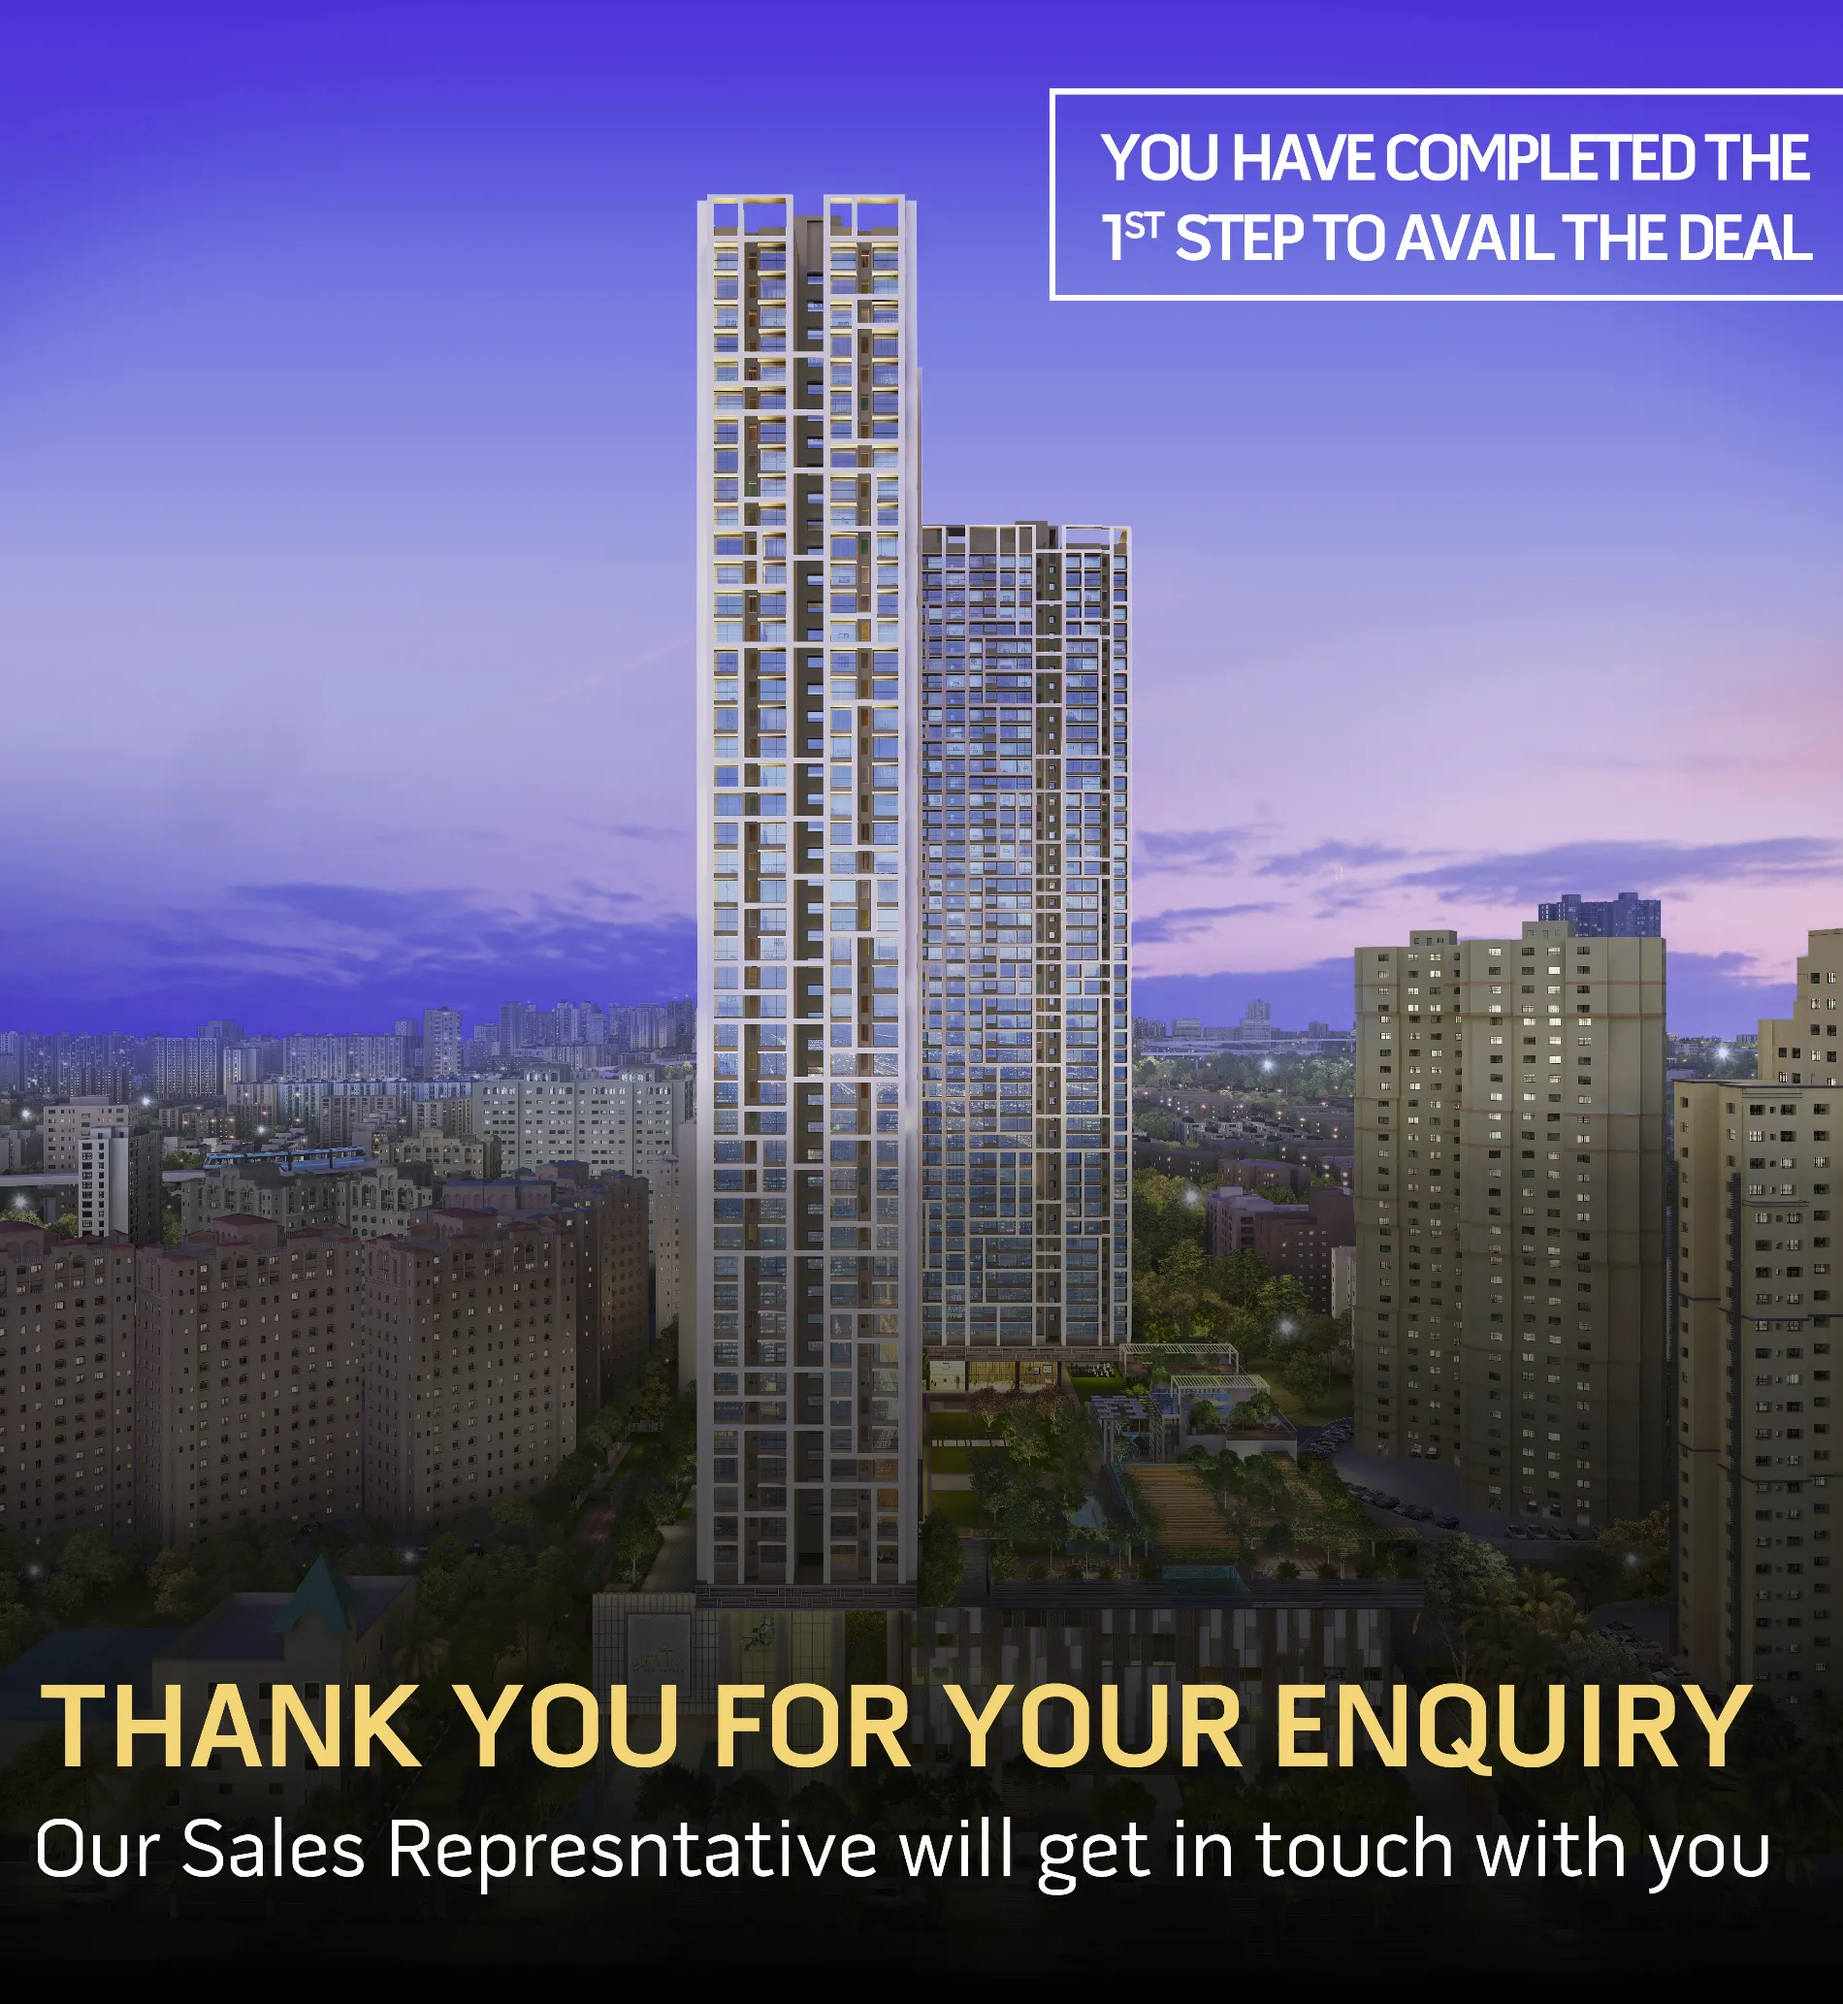
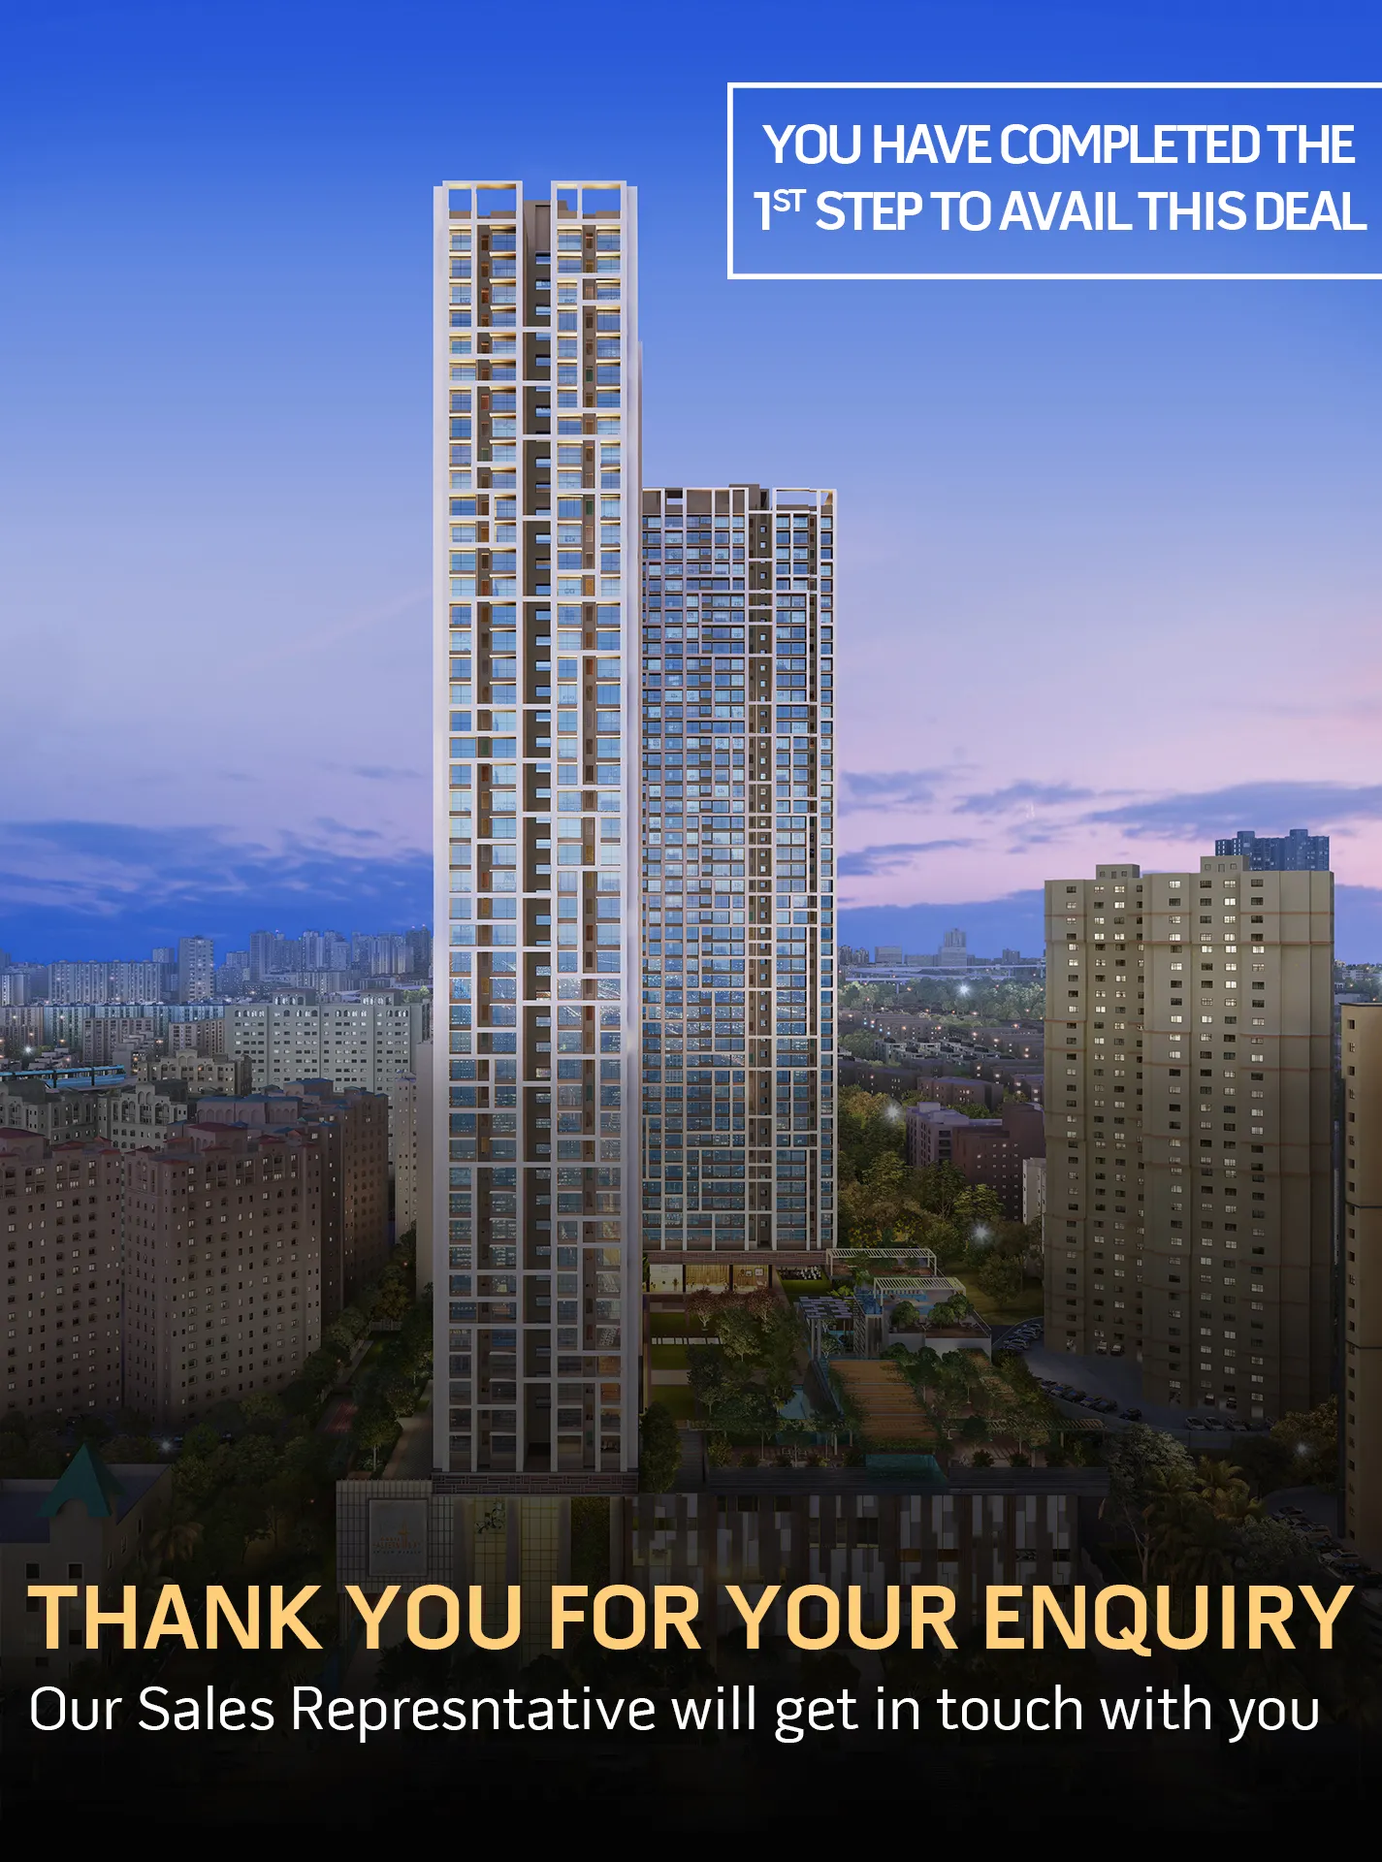
Response Page Updated

diff --git a/projects/dosti-realty/eastern-bay/response.html b/projects/dosti-realty/eastern-bay/response.html
@@ -37,13 +37,12 @@
    <!-- Required meta tags -->
    <meta charset="UTF-8" />
    <meta name="viewport" content="width=device-width, initial-scale=1, shrink-to-fit=no">
-   <title>Island City Center - Bombay Realty 3/4 BHK Luxury Homes</title>
+   <title>Eastern Bay - Dosti Group 2/3 BHK Homes</title>
 
    <!-- Required meta tags -->
    <meta charset="UTF-8" />
    <meta name="viewport" content="width=device-width, initial-scale=1, shrink-to-fit=no">
-   <title>Bombay Realty - ICC</title>
-   <link rel="shortcut icon" href="favicon.ico" type="image/x-icon">
+   <link rel="shortcut icon" href="favicon.png" type="image/x-icon">
 
 
    <!-- Bootstrap CSS -->
@@ -103,12 +102,14 @@
    </header>
    <main>
       <section class="desktop-only">
-         <img id="banner-image" src="./images/update naight aerial_highrezz_2- Response Page.webp" alt="" srcset="">
+         <img id="banner-image" src="./images/update naight aerial_highrezz_2.jpg" alt="" srcset="">
       </section>
       <section class="mobile-only">
          <img id="banner-image" src="./images/Elevation Cam - Mobile Response Page.webp" alt="" srcset="">
       </section>
    </main>
+   <hr>
+   <hr>
    <footer>
       <section>
          <div class="container">

diff --git a/projects/dosti-realty/eastern-bay/js/main.js b/projects/dosti-realty/eastern-bay/js/main.js
@@ -73,7 +73,7 @@ $("#leadForm-popup").submit(function (e) {
 
     // var srd = selectSRD(utm_source, utm_campaign);
     var srd = queryParameter('srd', currentUrl);
-
+    if (!srd) srd = '5faa0bce4443ae474efa311d';
 
     $.ajax({
         url: "https://app.sell.do/api/leads/create",
@@ -128,7 +128,7 @@ $("#leadForm").submit(function (e) {
 
     // var srd = selectSRD(utm_source, utm_campaign);
     var srd = queryParameter('srd', currentUrl);
-
+    if (!srd) srd = '5faa0bce4443ae474efa311d';
 
     $.ajax({
         url: "https://app.sell.do/api/leads/create",
@@ -180,6 +180,8 @@ $("#leadFormMobile").submit(function (e) {
 
     // var srd = selectSRD(utm_source, utm_campaign);
     var srd = queryParameter('srd', currentUrl);
+    if (!srd) srd = '5faa0bce4443ae474efa311d';
+    
 
 
     $.ajax({
@@ -317,7 +319,7 @@ function storeLeadInDB() {
     var name = $('#name').val();
     var email = $('#email').val();
     var mobile = $('#mobile').val();
-    var project = 'Bombay Realty - ICC';
+    var project = 'Dosti Realty - Eastern Bay';
     var timestamp = Date();
     data = {
         "formId": String(Math.floor(Date.now() / 1000)),
